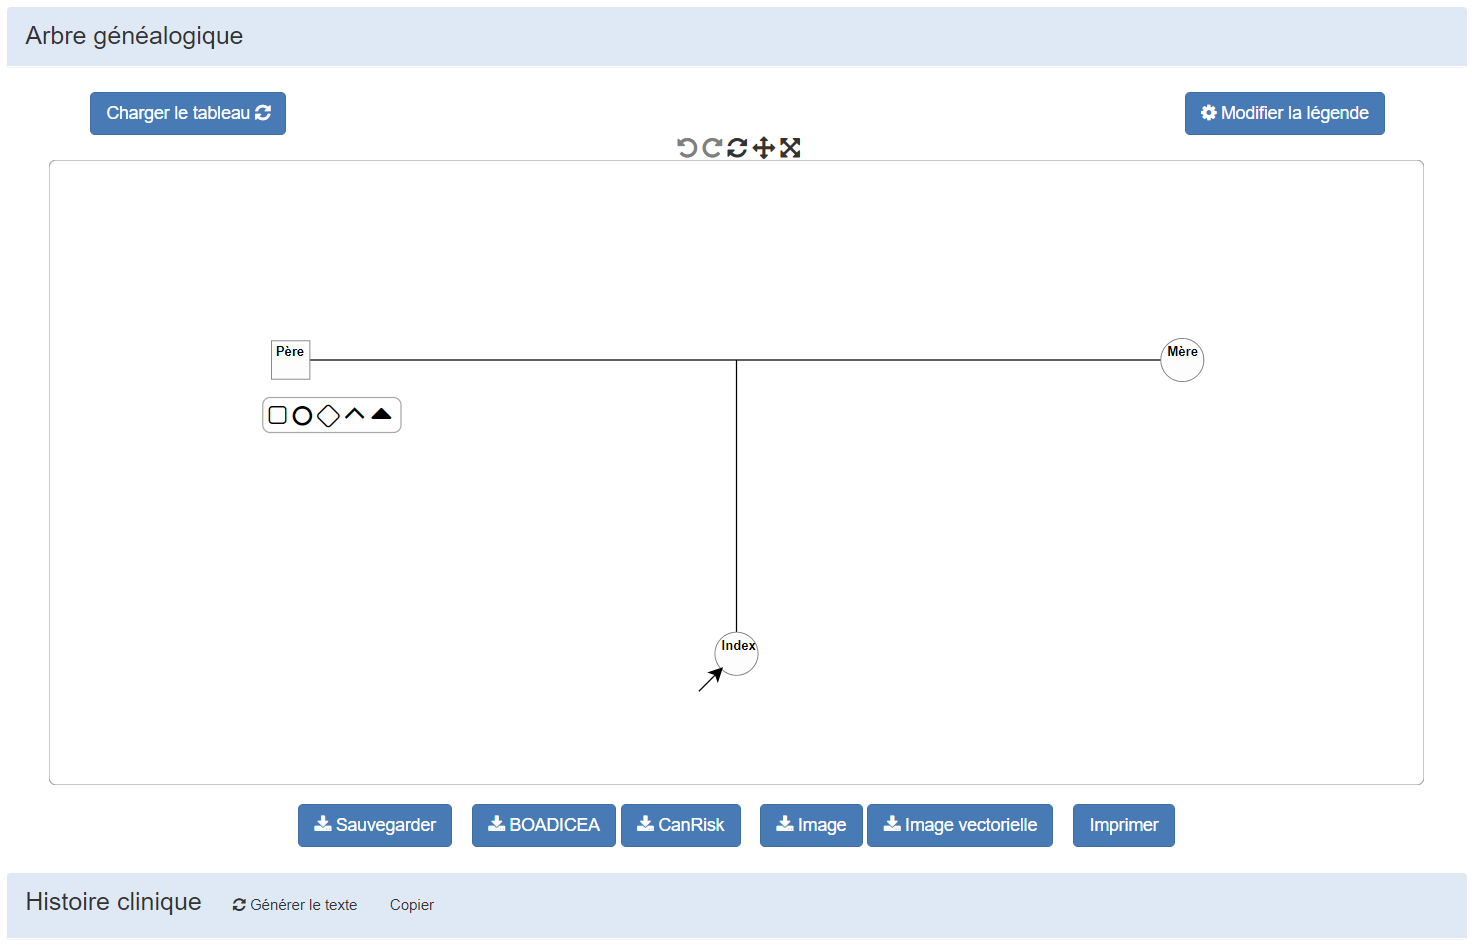
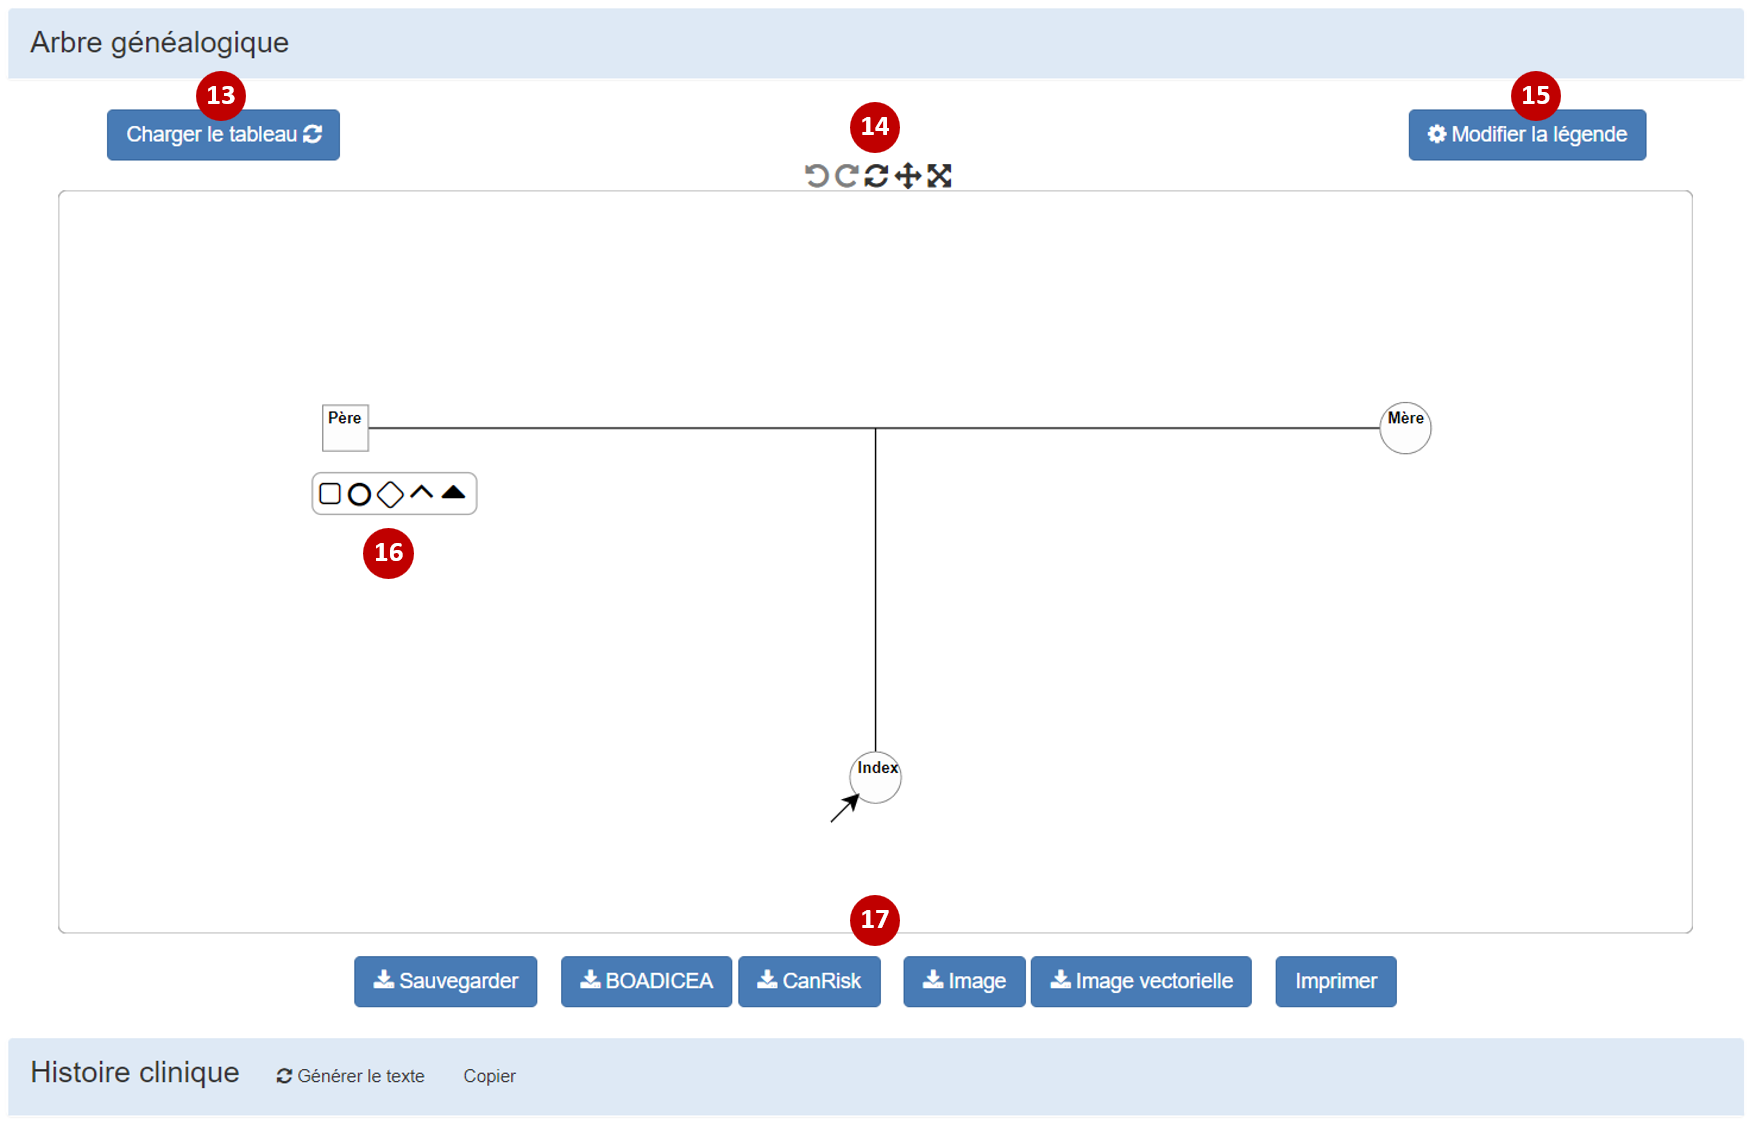
correct guide

diff --git a/lang/lang.fr.js b/lang/lang.fr.js
@@ -120,20 +120,19 @@ var lang = {
     "Les fichiers GEDCOM sont pris en charge partiellement (import de la structure de la famille avec les noms des membres)",
     guide_famTitle2:"Création d'une nouvelle famille",
     guide_fam1:"La structure de base d'une famille est composée de trois membres : le cas index et ses parents. " +
-    "Il est possible de créer une famille plus élaborée en quelques clics en cliquant sur le menu déroulant 'Nouvelle Famille' (4, Figure 2):",
-    guide_fam2:"soit à partir d'une structure standard",
+    "Il est possible de créer une famille plus élaborée en quelques clics en cliquant sur le menu déroulant 'Nouvelle Famille' (4) :",
+    guide_fam2:"soit à partir d'une structure standard (9)",
     guide_fam3:"le cas index et ses parents",
     guide_fam4:"le cas index, ses parents, et ses grands-parents",
     guide_fam5:"le cas index, ses parents, ses grands-parents, et les arrières-grands-parents",
-    guide_fam6:"soit à partir d'une structure personalisée avec le nombre de membres adéquats (frères, soeurs, oncles et tantes de chaque branches)."+
-    "La famille est créée en cliquant sur le bouton 'Créer un nouvel arbre'. ",
+    guide_fam6:"soit à partir d'une structure personalisée (10) avec le nombre de membres adéquats (frères, soeurs, oncles et tantes de chaque branches). "+
+    "La famille est créée en cliquant sur le bouton 'Créer un nouvel arbre' (11). ",
     guide_fam7:"Note : il est également possible, à tout moment, de sélectionner un individu sur le tableau " +
-    "et de lui ajouter des membres via ce menu en cliquant sur le bouton 'Ajouter à l'individu'.",
+    "et de lui ajouter des membres via ce menu en cliquant sur le bouton 'Ajouter à l'individu' (12).",
     guide_famFig2:"Figure 2. Menu déroulant du tableau",
     guide_modTitle:"Modification d'une famille au niveau du tableau",
     guide_modTitle1:"Ajout d'un individu",
-    guide_mod0: "Une fois un individu sélectionné, il est possible de cliquer sur les boutons afin d'ajouter un membre correspondant."+"\n"+
-    "Note : le bouton conjoint permets d'ajouter un nouveau conjoint à l'individu. ",
+    guide_mod0: "Une fois un individu sélectionné, il est possible de cliquer sur les boutons afin d'ajouter un apparenté (6) : frère, soeur, fils, fille, parents, nouveau conjoint, fausse-couche.",
     guide_modTitle2:"Personnalisation d'un individu",
     guide_mod1:"Plusieurs paramètres peuvent être remplis pour chaque individu : genre, décès, âge, année de naissance, pathologie avec âge de début etc." +
     "L'année d'une pathologie ou du décés peuvent être renseignés dans les colonnes « Âge » des pathologies ou de décés si la date de naissance est également renseignée." +
@@ -142,12 +141,12 @@ var lang = {
     guide_mod2:"Un menu supplémentaire existe pour remplir d'autres informations et en particulier les données nécessaires au calcul du CanRisk. " +
     "Il est ouvert en cliquant sur 'Ajouter des informations à un individu' (5). Par défaut, le cas index est sélectionné.",
     guide_intTitle:"Prise en main de l'interface graphique de l'arbre généalogique",
-    guide_int0:"L'arbre est chargeable depuis le tableur." +
-    "Il est possible de mettre l'arbre en plein écran, de défaire ou refaire la dernière action et également de centrer l'arbre.",
+    guide_int0:"L'arbre est chargé depuis le tableur grâce au bouton dédié (13). " +
+    "Il est possible de de défaire ou refaire la dernière action, de réinitialiser l'arbre, mettre l'arbre en plein écran, et également de centrer l'arbre (14).",
     guide_int1:"Une fois que vous avez commencé à construire votre arbre généalogique, placez le pointeur de la souris sur un individu, pour faire apparaître les 'widgets' utilisés pour l'édition." +
     "Vous pouvez utiliser ces 'widgets' pour ajouter des partenaires, des parents, des frères et sœurs, des enfants à votre arbre." +
     "La roulette permets, elle, d'ouvrir un menu afin de modifier l'individu : âge, sexe, pathologies, etc.",
-    guide_int2:"Les pathologies sont paramétrables grâce à la roulette à droite. Chaque pathologie corresponds à une couleur (en HEX ou en toute lettre) ou à un motif."+"\n"+
+    guide_int2:"Les couleurs des pathologies sont paramétrables grâce au bouton à droite (15). Chaque pathologie corresponds à une couleur (en HEX ou en toute lettre) ou à un motif."+"\n"+
     "Un bouton spécifique permets de transformer les couleurs en motifs.",
     guide_intFig3:"Figure 3. 'Widgets' autour d'un individu",
     guide_int3:"Il existe cinq boutons suplémentaires au dessus de l'interface graphique :",

diff --git a/docs/guide.html b/docs/guide.html
@@ -309,11 +309,11 @@
 			</div>
 			
 			<div style="padding:0px 20px;">
-				<p class="text-center">
-					<img src="../data/images/interface.png"  alt="fonctionnement général" class="responsive" style="max-width:800px;">
-				</p>
 				<p>
 					<span id="guide_int0" class="lang" style="white-space: pre-line"></span>
+				</p>
+				<p class="text-center">
+					<img src="../data/images/interface.png"  alt="fonctionnement général" class="responsive" style="max-width:800px;">
 				</p>
 				<p>
 					<span id="guide_int1" class="lang" style="white-space: pre-line"></span>
@@ -328,7 +328,7 @@
 				<p>
 					<span id="guide_int2" class="lang" style="white-space: pre-line"></span>
 				</p>
-				<p>
+				<!-- <p>
 					<span id="guide_int3" class="lang" style="white-space: pre-line"></span>
 					<ul>
 						<li><span id="guide_int4" class="lang" style="white-space: pre-line"></span></li>
@@ -337,7 +337,7 @@
 						<li><span id="guide_int7" class="lang" style="white-space: pre-line"></span></li>
 						<li><span id="guide_int8" class="lang" style="white-space: pre-line"></span></li>
 					</ul>
-				</p>
+				</p> -->
 			</div>
 		</div>
 
